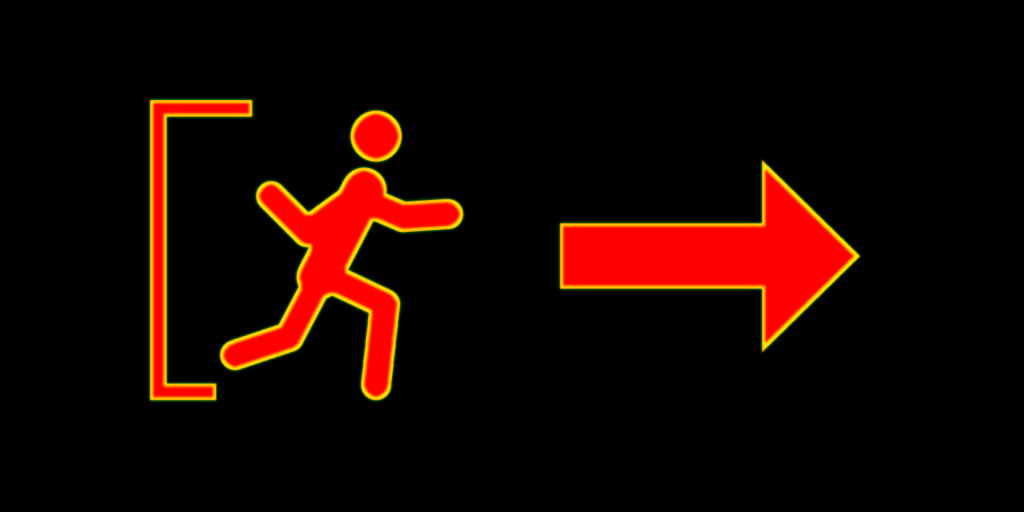
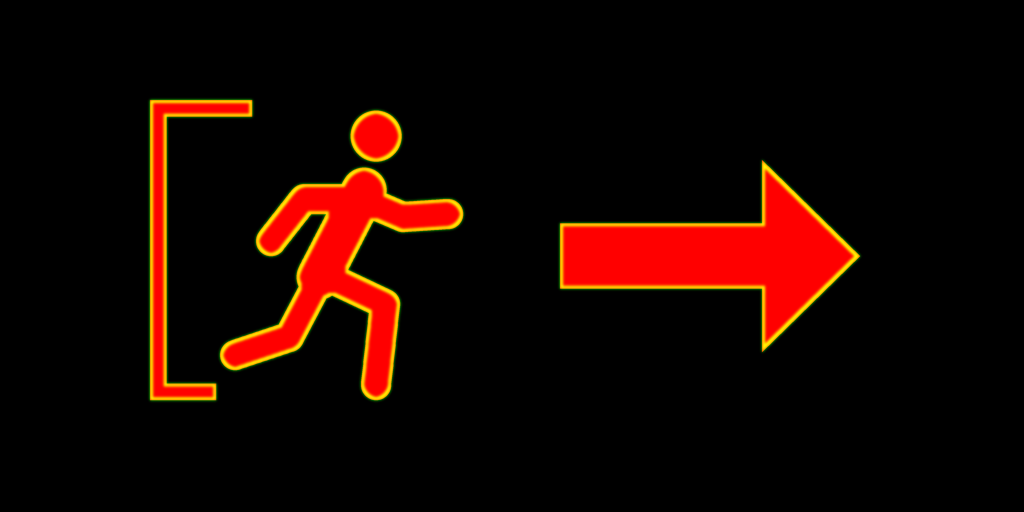
The back arm of the running figure: elbow level with the shoulder, forearm falling

Changed region(s): [[0.25, 0.3438, 0.3438, 0.5]]

diff --git a/tools/textures/make_exit_sign.py b/tools/textures/make_exit_sign.py
@@ -163,7 +163,8 @@ LIMB = 30
 def figure(mask, x0, y0):
     """The running figure of the standard sign, in its own box: head, body
     leaning into the run, the front arm reaching straight ahead, the back arm
-    pumped back with its forearm up, one leg stepping out and the other kicking back, with no
+    out behind with the elbow level with the shoulder and the forearm falling
+    away diagonally, one leg stepping out and the other kicking back, with no
     feet, as the standard draws it. Stamped with a round pen."""
     layer = Image.new("L", SUPER, 0)
     pen = ImageDraw.Draw(layer)
@@ -180,7 +181,7 @@ def figure(mask, x0, y0):
 
     limb([(0.58, 0.28), (0.43, 0.57)], LIMB * 1.5)            # body, leaning in
     limb([(0.57, 0.31), (0.71, 0.37), (0.86, 0.36)])           # front arm, reaching ahead
-    limb([(0.54, 0.31), (0.39, 0.42), (0.27, 0.30)])           # back arm, pumped back, forearm up
+    limb([(0.54, 0.31), (0.38, 0.31), (0.27, 0.45)])           # back arm: elbow level with the shoulder, forearm falling
     limb([(0.46, 0.57), (0.65, 0.66), (0.62, 0.93)])           # front leg, no foot
     limb([(0.43, 0.58), (0.33, 0.77), (0.15, 0.83)])           # back leg, no foot
     mask.paste(ImageChops.lighter(mask, layer))
